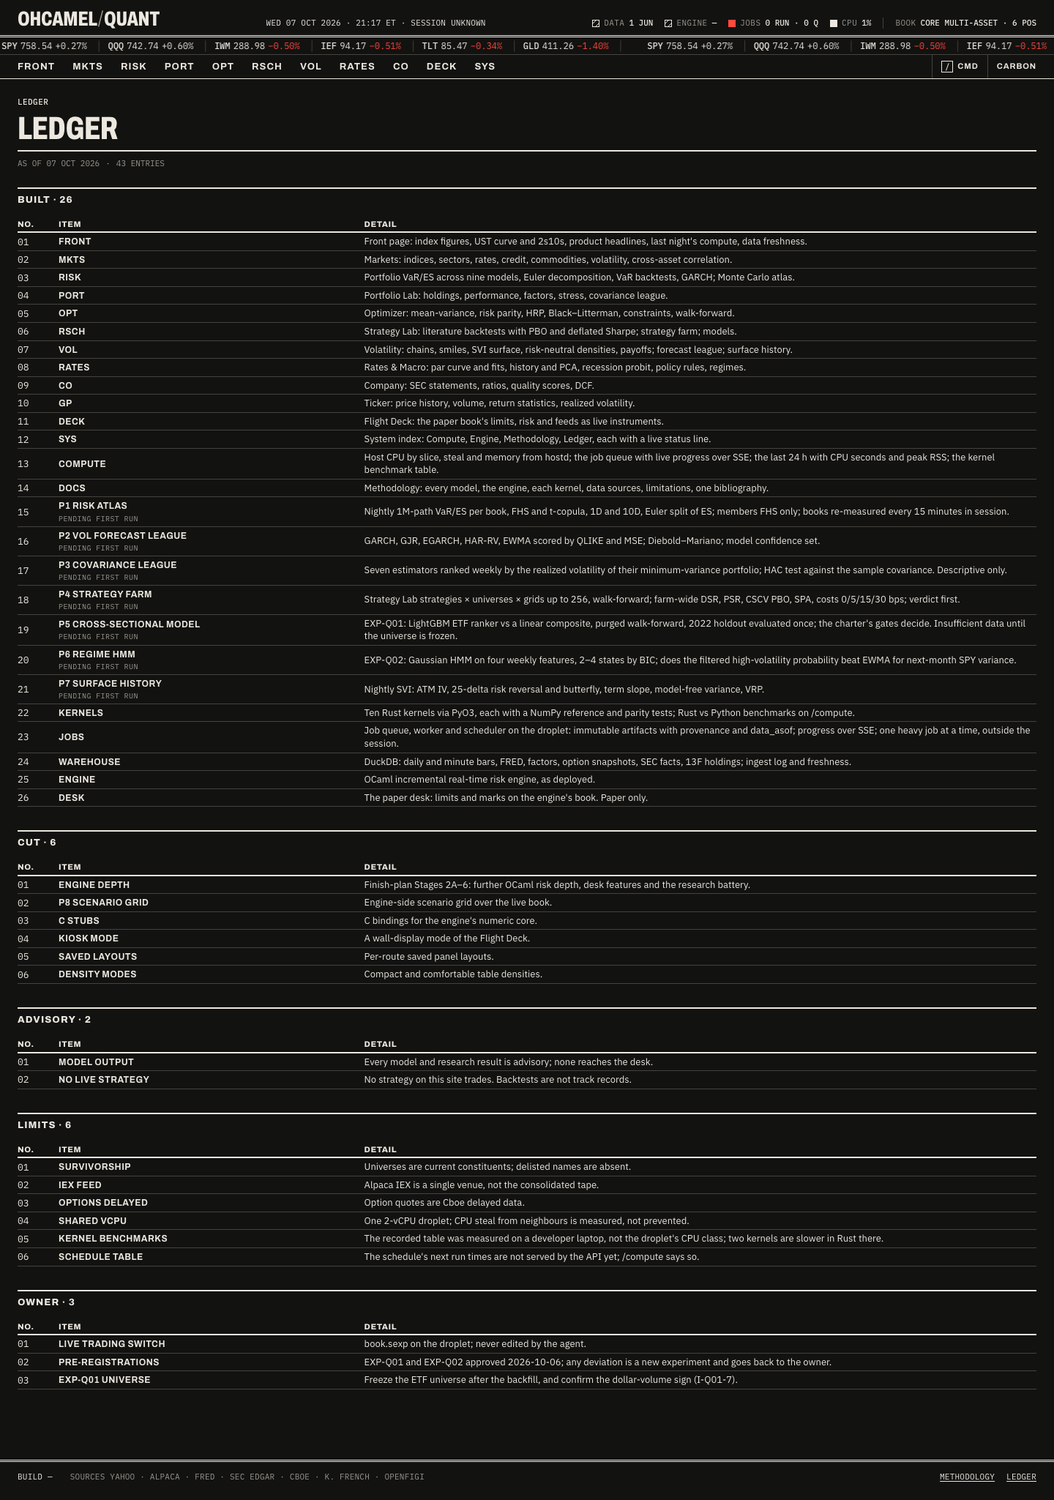
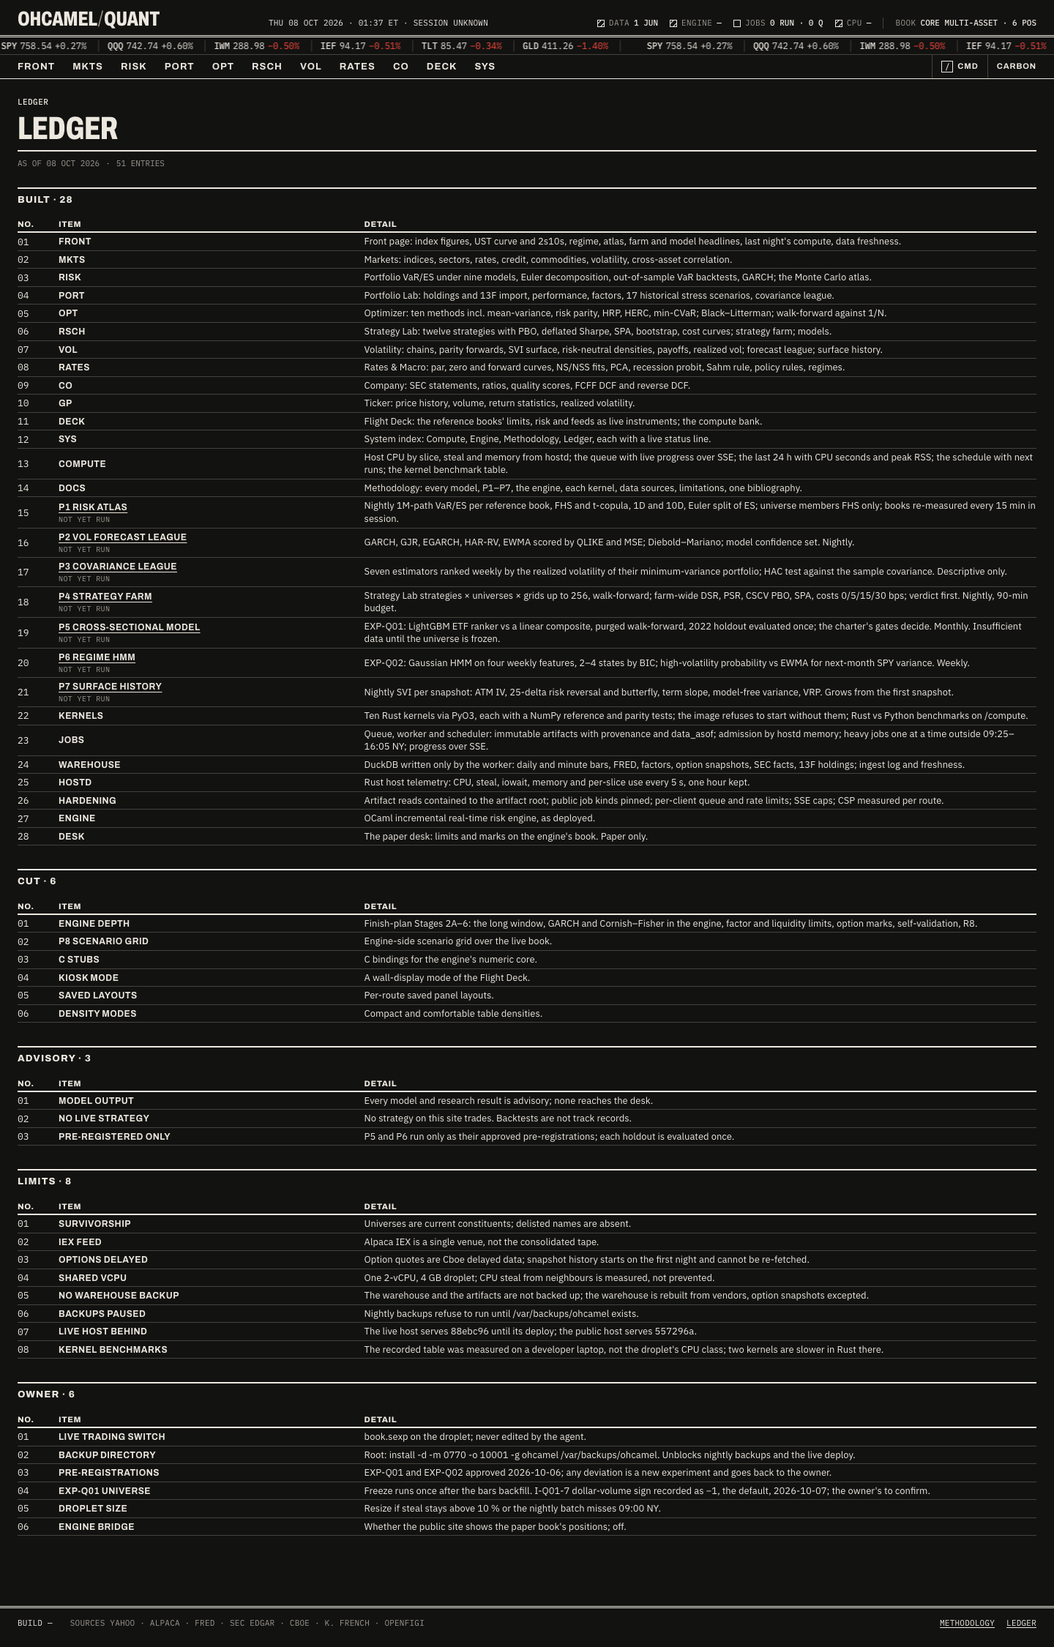
ledger: re-dated 2026-10-08 and checked against the code; product rows read their kind's latest artifact (verdict · ASOF date, STALE, FAIL in signal, NOT YET RUN) instead of a static PENDING flag, and link to their Methodology entry
BUILT gains HOSTD, HARDENING, the schedule table, the Deck compute bank and
corrected details (nine VaR models, ten optimizers, twelve strategies); CUT
matches Ship spec section 2; LIMITS adds no warehouse/artifact backup,
backups paused until /var/backups/ohcamel exists, live host on 88ebc96;
OWNER adds the backup directory, droplet size and engine bridge, and records
the I-Q01-7 sign as -1 by default. Screenshots /ledger and /system 1440/380
paper/carbon (offline: NOT YET RUN), axe 0 serious, no 380 overflow;
populated rows checked with intercepted artifacts (scratch, not committed).

Changed region(s): [[0.0, 0.0, 1.0, 0.937], [0.0, 0.9683, 0.4062, 0.9995], [0.875, 0.9683, 1.0, 0.9995]]

diff --git a/quant/web/src/pages/ledger/entries.ts b/quant/web/src/pages/ledger/entries.ts
@@ -1,6 +1,8 @@
 /**
  * The Ledger: what exists, what was cut, what is advisory, known limits, and what the owner
- * holds. Plain data; re-dated at launch (Lane H). Cut items say what they would have been.
+ * holds. Plain data, dated; re-checked against the code by Lane H (H2). Cut items say what they
+ * would have been. A product row names its job kind, and the page reads that kind's latest
+ * artifact for the row's state, so the Ledger never claims a run it cannot see.
  */
 export type LedgerSection = "BUILT" | "CUT" | "ADVISORY" | "LIMITS" | "OWNER";
 
@@ -8,44 +10,48 @@ export interface LedgerEntry {
   section: LedgerSection;
   item: string;
   detail: string;
-  /** Built but its nightly artifact has not run yet; the row says PENDING FIRST RUN. */
-  pending?: boolean;
+  /** Products only: the job kind whose latest artifact gives the row its live state. */
+  kind?: string;
+  /** Products only: the Methodology entry id. */
+  methodology?: string;
 }
 
-export const LEDGER_AS_OF = "2026-10-07";
+export const LEDGER_AS_OF = "2026-10-08";
 
 export const SECTION_ORDER: LedgerSection[] = ["BUILT", "CUT", "ADVISORY", "LIMITS", "OWNER"];
 
 export const LEDGER: LedgerEntry[] = [
   // ---------------------------------------------------------------- built
-  { section: "BUILT", item: "FRONT", detail: "Front page: index figures, UST curve and 2s10s, product headlines, last night's compute, data freshness." },
+  { section: "BUILT", item: "FRONT", detail: "Front page: index figures, UST curve and 2s10s, regime, atlas, farm and model headlines, last night's compute, data freshness." },
   { section: "BUILT", item: "MKTS", detail: "Markets: indices, sectors, rates, credit, commodities, volatility, cross-asset correlation." },
-  { section: "BUILT", item: "RISK", detail: "Portfolio VaR/ES across nine models, Euler decomposition, VaR backtests, GARCH; Monte Carlo atlas." },
-  { section: "BUILT", item: "PORT", detail: "Portfolio Lab: holdings, performance, factors, stress, covariance league." },
-  { section: "BUILT", item: "OPT", detail: "Optimizer: mean-variance, risk parity, HRP, Black–Litterman, constraints, walk-forward." },
-  { section: "BUILT", item: "RSCH", detail: "Strategy Lab: literature backtests with PBO and deflated Sharpe; strategy farm; models." },
-  { section: "BUILT", item: "VOL", detail: "Volatility: chains, smiles, SVI surface, risk-neutral densities, payoffs; forecast league; surface history." },
-  { section: "BUILT", item: "RATES", detail: "Rates & Macro: par curve and fits, history and PCA, recession probit, policy rules, regimes." },
-  { section: "BUILT", item: "CO", detail: "Company: SEC statements, ratios, quality scores, DCF." },
+  { section: "BUILT", item: "RISK", detail: "Portfolio VaR/ES under nine models, Euler decomposition, out-of-sample VaR backtests, GARCH; the Monte Carlo atlas." },
+  { section: "BUILT", item: "PORT", detail: "Portfolio Lab: holdings and 13F import, performance, factors, 17 historical stress scenarios, covariance league." },
+  { section: "BUILT", item: "OPT", detail: "Optimizer: ten methods incl. mean-variance, risk parity, HRP, HERC, min-CVaR; Black–Litterman; walk-forward against 1/N." },
+  { section: "BUILT", item: "RSCH", detail: "Strategy Lab: twelve strategies with PBO, deflated Sharpe, SPA, bootstrap, cost curves; strategy farm; models." },
+  { section: "BUILT", item: "VOL", detail: "Volatility: chains, parity forwards, SVI surface, risk-neutral densities, payoffs, realized vol; forecast league; surface history." },
+  { section: "BUILT", item: "RATES", detail: "Rates & Macro: par, zero and forward curves, NS/NSS fits, PCA, recession probit, Sahm rule, policy rules, regimes." },
+  { section: "BUILT", item: "CO", detail: "Company: SEC statements, ratios, quality scores, FCFF DCF and reverse DCF." },
   { section: "BUILT", item: "GP", detail: "Ticker: price history, volume, return statistics, realized volatility." },
-  { section: "BUILT", item: "DECK", detail: "Flight Deck: the paper book's limits, risk and feeds as live instruments." },
+  { section: "BUILT", item: "DECK", detail: "Flight Deck: the reference books' limits, risk and feeds as live instruments; the compute bank." },
   { section: "BUILT", item: "SYS", detail: "System index: Compute, Engine, Methodology, Ledger, each with a live status line." },
-  { section: "BUILT", item: "COMPUTE", detail: "Host CPU by slice, steal and memory from hostd; the job queue with live progress over SSE; the last 24 h with CPU seconds and peak RSS; the kernel benchmark table." },
-  { section: "BUILT", item: "DOCS", detail: "Methodology: every model, the engine, each kernel, data sources, limitations, one bibliography." },
-  { section: "BUILT", item: "P1 RISK ATLAS", detail: "Nightly 1M-path VaR/ES per book, FHS and t-copula, 1D and 10D, Euler split of ES; members FHS only; books re-measured every 15 minutes in session.", pending: true },
-  { section: "BUILT", item: "P2 VOL FORECAST LEAGUE", detail: "GARCH, GJR, EGARCH, HAR-RV, EWMA scored by QLIKE and MSE; Diebold–Mariano; model confidence set.", pending: true },
-  { section: "BUILT", item: "P3 COVARIANCE LEAGUE", detail: "Seven estimators ranked weekly by the realized volatility of their minimum-variance portfolio; HAC test against the sample covariance. Descriptive only.", pending: true },
-  { section: "BUILT", item: "P4 STRATEGY FARM", detail: "Strategy Lab strategies × universes × grids up to 256, walk-forward; farm-wide DSR, PSR, CSCV PBO, SPA, costs 0/5/15/30 bps; verdict first.", pending: true },
-  { section: "BUILT", item: "P5 CROSS-SECTIONAL MODEL", detail: "EXP-Q01: LightGBM ETF ranker vs a linear composite, purged walk-forward, 2022 holdout evaluated once; the charter's gates decide. Insufficient data until the universe is frozen.", pending: true },
-  { section: "BUILT", item: "P6 REGIME HMM", detail: "EXP-Q02: Gaussian HMM on four weekly features, 2–4 states by BIC; does the filtered high-volatility probability beat EWMA for next-month SPY variance.", pending: true },
-  { section: "BUILT", item: "P7 SURFACE HISTORY", detail: "Nightly SVI: ATM IV, 25-delta risk reversal and butterfly, term slope, model-free variance, VRP.", pending: true },
-  { section: "BUILT", item: "KERNELS", detail: "Ten Rust kernels via PyO3, each with a NumPy reference and parity tests; Rust vs Python benchmarks on /compute." },
-  { section: "BUILT", item: "JOBS", detail: "Job queue, worker and scheduler on the droplet: immutable artifacts with provenance and data_asof; progress over SSE; one heavy job at a time, outside the session." },
-  { section: "BUILT", item: "WAREHOUSE", detail: "DuckDB: daily and minute bars, FRED, factors, option snapshots, SEC facts, 13F holdings; ingest log and freshness." },
+  { section: "BUILT", item: "COMPUTE", detail: "Host CPU by slice, steal and memory from hostd; the queue with live progress over SSE; the last 24 h with CPU seconds and peak RSS; the schedule with next runs; the kernel benchmark table." },
+  { section: "BUILT", item: "DOCS", detail: "Methodology: every model, P1–P7, the engine, each kernel, data sources, limitations, one bibliography." },
+  { section: "BUILT", item: "P1 RISK ATLAS", kind: "risk.mc_atlas", methodology: "p1-mc-atlas", detail: "Nightly 1M-path VaR/ES per reference book, FHS and t-copula, 1D and 10D, Euler split of ES; universe members FHS only; books re-measured every 15 min in session." },
+  { section: "BUILT", item: "P2 VOL FORECAST LEAGUE", kind: "vol.forecast_league", methodology: "p2-vol-league", detail: "GARCH, GJR, EGARCH, HAR-RV, EWMA scored by QLIKE and MSE; Diebold–Mariano; model confidence set. Nightly." },
+  { section: "BUILT", item: "P3 COVARIANCE LEAGUE", kind: "cov.league", methodology: "p3-cov-league", detail: "Seven estimators ranked weekly by the realized volatility of their minimum-variance portfolio; HAC test against the sample covariance. Descriptive only." },
+  { section: "BUILT", item: "P4 STRATEGY FARM", kind: "farm.sweep", methodology: "p4-strategy-farm", detail: "Strategy Lab strategies × universes × grids up to 256, walk-forward; farm-wide DSR, PSR, CSCV PBO, SPA, costs 0/5/15/30 bps; verdict first. Nightly, 90-min budget." },
+  { section: "BUILT", item: "P5 CROSS-SECTIONAL MODEL", kind: "models.xs_lgbm", methodology: "p5-exp-q01", detail: "EXP-Q01: LightGBM ETF ranker vs a linear composite, purged walk-forward, 2022 holdout evaluated once; the charter's gates decide. Monthly. Insufficient data until the universe is frozen." },
+  { section: "BUILT", item: "P6 REGIME HMM", kind: "regime.hmm", methodology: "p6-exp-q02", detail: "EXP-Q02: Gaussian HMM on four weekly features, 2–4 states by BIC; high-volatility probability vs EWMA for next-month SPY variance. Weekly." },
+  { section: "BUILT", item: "P7 SURFACE HISTORY", kind: "vol.surface_history", methodology: "p7-surface-history", detail: "Nightly SVI per snapshot: ATM IV, 25-delta risk reversal and butterfly, term slope, model-free variance, VRP. Grows from the first snapshot." },
+  { section: "BUILT", item: "KERNELS", detail: "Ten Rust kernels via PyO3, each with a NumPy reference and parity tests; the image refuses to start without them; Rust vs Python benchmarks on /compute." },
+  { section: "BUILT", item: "JOBS", detail: "Queue, worker and scheduler: immutable artifacts with provenance and data_asof; admission by hostd memory; heavy jobs one at a time outside 09:25–16:05 NY; progress over SSE." },
+  { section: "BUILT", item: "WAREHOUSE", detail: "DuckDB written only by the worker: daily and minute bars, FRED, factors, option snapshots, SEC facts, 13F holdings; ingest log and freshness." },
+  { section: "BUILT", item: "HOSTD", detail: "Rust host telemetry: CPU, steal, iowait, memory and per-slice use every 5 s, one hour kept." },
+  { section: "BUILT", item: "HARDENING", detail: "Artifact reads contained to the artifact root; public job kinds pinned; per-client queue and rate limits; SSE caps; CSP measured per route." },
   { section: "BUILT", item: "ENGINE", detail: "OCaml incremental real-time risk engine, as deployed." },
   { section: "BUILT", item: "DESK", detail: "The paper desk: limits and marks on the engine's book. Paper only." },
   // ---------------------------------------------------------------- cut
-  { section: "CUT", item: "ENGINE DEPTH", detail: "Finish-plan Stages 2A–6: further OCaml risk depth, desk features and the research battery." },
+  { section: "CUT", item: "ENGINE DEPTH", detail: "Finish-plan Stages 2A–6: the long window, GARCH and Cornish–Fisher in the engine, factor and liquidity limits, option marks, self-validation, R8." },
   { section: "CUT", item: "P8 SCENARIO GRID", detail: "Engine-side scenario grid over the live book." },
   { section: "CUT", item: "C STUBS", detail: "C bindings for the engine's numeric core." },
   { section: "CUT", item: "KIOSK MODE", detail: "A wall-display mode of the Flight Deck." },
@@ -54,14 +60,21 @@ export const LEDGER: LedgerEntry[] = [
   // ---------------------------------------------------------------- advisory
   { section: "ADVISORY", item: "MODEL OUTPUT", detail: "Every model and research result is advisory; none reaches the desk." },
   { section: "ADVISORY", item: "NO LIVE STRATEGY", detail: "No strategy on this site trades. Backtests are not track records." },
+  { section: "ADVISORY", item: "PRE-REGISTERED ONLY", detail: "P5 and P6 run only as their approved pre-registrations; each holdout is evaluated once." },
   // ---------------------------------------------------------------- limits
   { section: "LIMITS", item: "SURVIVORSHIP", detail: "Universes are current constituents; delisted names are absent." },
   { section: "LIMITS", item: "IEX FEED", detail: "Alpaca IEX is a single venue, not the consolidated tape." },
-  { section: "LIMITS", item: "OPTIONS DELAYED", detail: "Option quotes are Cboe delayed data." },
-  { section: "LIMITS", item: "SHARED VCPU", detail: "One 2-vCPU droplet; CPU steal from neighbours is measured, not prevented." },
+  { section: "LIMITS", item: "OPTIONS DELAYED", detail: "Option quotes are Cboe delayed data; snapshot history starts on the first night and cannot be re-fetched." },
+  { section: "LIMITS", item: "SHARED VCPU", detail: "One 2-vCPU, 4 GB droplet; CPU steal from neighbours is measured, not prevented." },
+  { section: "LIMITS", item: "NO WAREHOUSE BACKUP", detail: "The warehouse and the artifacts are not backed up; the warehouse is rebuilt from vendors, option snapshots excepted." },
+  { section: "LIMITS", item: "BACKUPS PAUSED", detail: "Nightly backups refuse to run until /var/backups/ohcamel exists." },
+  { section: "LIMITS", item: "LIVE HOST BEHIND", detail: "The live host serves 88ebc96 until its deploy; the public host serves 557296a." },
   { section: "LIMITS", item: "KERNEL BENCHMARKS", detail: "The recorded table was measured on a developer laptop, not the droplet's CPU class; two kernels are slower in Rust there." },
   // ---------------------------------------------------------------- owner
   { section: "OWNER", item: "LIVE TRADING SWITCH", detail: "book.sexp on the droplet; never edited by the agent." },
+  { section: "OWNER", item: "BACKUP DIRECTORY", detail: "Root: install -d -m 0770 -o 10001 -g ohcamel /var/backups/ohcamel. Unblocks nightly backups and the live deploy." },
   { section: "OWNER", item: "PRE-REGISTRATIONS", detail: "EXP-Q01 and EXP-Q02 approved 2026-10-06; any deviation is a new experiment and goes back to the owner." },
-  { section: "OWNER", item: "EXP-Q01 UNIVERSE", detail: "Freeze the ETF universe after the backfill, and confirm the dollar-volume sign (I-Q01-7)." },
+  { section: "OWNER", item: "EXP-Q01 UNIVERSE", detail: "Freeze runs once after the bars backfill. I-Q01-7 dollar-volume sign recorded as −1, the default, 2026-10-07; the owner's to confirm." },
+  { section: "OWNER", item: "DROPLET SIZE", detail: "Resize if steal stays above 10 % or the nightly batch misses 09:00 NY." },
+  { section: "OWNER", item: "ENGINE BRIDGE", detail: "Whether the public site shows the paper book's positions; off." },
 ];

diff --git a/quant/web/src/pages/ledger/entries.test.ts b/quant/web/src/pages/ledger/entries.test.ts
@@ -1,31 +1,47 @@
 import { describe, expect, it } from "vitest";
-import { LEDGER } from "./entries";
+import { KINDS } from "../../lib/artifacts";
+import { KERNEL_API } from "../methodology/compute";
+import { MODELS } from "../methodology/models";
+import { LEDGER, LEDGER_AS_OF, SECTION_ORDER } from "./entries";
 
 describe("Ledger entries", () => {
-  it("marks the nightly products P1-P7 as pending their first run (no claim ahead of the artifacts)", () => {
+  it("ties each product P1-P7 to the job kind whose latest artifact the row reads (no claim ahead of the artifacts)", () => {
     const products = LEDGER.filter((e) => /^P[1-7] /.test(e.item));
     expect(products).toHaveLength(7);
-    for (const e of products) expect(e.pending, e.item).toBe(true);
+    const kinds = products.map((e) => e.kind);
+    expect(new Set(kinds)).toEqual(new Set(Object.values(KINDS)));
   });
-  it("leaves the shipped routes unmarked", () => {
-    expect(LEDGER.find((e) => e.item === "FRONT")?.pending).toBeFalsy();
+  it("gives no other row a kind", () => {
+    for (const e of LEDGER.filter((e) => !/^P[1-7] /.test(e.item))) expect(e.kind, e.item).toBeUndefined();
+  });
+  it("points each product at its Methodology entry", () => {
+    const ids = new Set(MODELS.map((m) => m.id));
+    for (const e of LEDGER.filter((e) => e.kind)) expect(ids.has(e.methodology ?? ""), e.item).toBe(true);
   });
 });
 
-describe("Ledger accuracy (re-dated 2026-10-07, Ship plan P2-7)", () => {
-  it("counts the kernels the Methodology documents", async () => {
-    const { KERNEL_API } = await import("../methodology/compute");
+describe("Ledger accuracy (re-dated 2026-10-08, Ship plan Lane H H2)", () => {
+  it("is dated 2026-10-08", () => {
+    expect(LEDGER_AS_OF).toBe("2026-10-08");
+  });
+  it("counts the kernels the Methodology documents", () => {
     expect(KERNEL_API).toHaveLength(10);
     expect(LEDGER.find((e) => e.item === "KERNELS")?.detail).toMatch(/^Ten Rust kernels/);
   });
-  it("has one row per item, and every section non-empty", async () => {
-    const { SECTION_ORDER } = await import("./entries");
+  it("lists every cut of the Ship spec §2", () => {
+    const cut = LEDGER.filter((e) => e.section === "CUT").map((e) => e.item);
+    for (const item of ["ENGINE DEPTH", "P8 SCENARIO GRID", "C STUBS", "KIOSK MODE", "SAVED LAYOUTS", "DENSITY MODES"]) expect(cut).toContain(item);
+  });
+  it("names the owner's outstanding root step for backups and the live host", () => {
+    const owner = LEDGER.filter((e) => e.section === "OWNER").map((e) => `${e.item} ${e.detail}`).join("\n");
+    expect(owner).toMatch(/\/var\/backups\/ohcamel/);
+  });
+  it("has one row per item, and every section non-empty", () => {
     const items = LEDGER.map((e) => `${e.section}:${e.item}`);
     expect(new Set(items).size).toBe(items.length);
     for (const s of SECTION_ORDER) expect(LEDGER.some((e) => e.section === s), s).toBe(true);
   });
-  it("is dated by an ISO date", async () => {
-    const { LEDGER_AS_OF } = await import("./entries");
-    expect(LEDGER_AS_OF).toMatch(/^\d{4}-\d{2}-\d{2}$/);
+  it("writes labels, not prose: no row detail ends in a question", () => {
+    for (const e of LEDGER) expect(e.detail.trim().endsWith("?"), e.item).toBe(false);
   });
 });

diff --git a/quant/web/src/pages/ledger/status.test.ts b/quant/web/src/pages/ledger/status.test.ts
@@ -1,0 +1,30 @@
+import { describe, expect, it } from "vitest";
+import { ApiError, DataUnavailableError, NetworkError } from "../../lib/api";
+import type { Manifest } from "../../lib/artifacts";
+import { productStatus } from "./status";
+
+const m = (over: Partial<Manifest> = {}): Manifest => ({ id: "01X", kind: "risk.mc_atlas", ...over });
+
+describe("productStatus: a product row's live state, read from its latest artifact (no claim ahead of it)", () => {
+  it("leads with the verdict and the data date", () => {
+    expect(productStatus(m({ verdict: "DESCRIPTIVE ONLY", data_asof: "2026-10-07" }), null, false))
+      .toEqual({ text: "DESCRIPTIVE ONLY · ASOF 07 OCT 2026", fail: false });
+  });
+  it("marks FAIL for the signal colour and STALE when the API says so", () => {
+    expect(productStatus(m({ verdict: "FAIL", data_asof: "2026-10-01", stale: true }), null, false))
+      .toEqual({ text: "FAIL · ASOF 01 OCT 2026 · STALE", fail: true });
+  });
+  it("says NO VERDICT and a dash when the manifest has neither", () => {
+    expect(productStatus(m(), null, false).text).toBe("NO VERDICT · ASOF —");
+  });
+  it("says NOT YET RUN on a 404 and DATA UNAVAILABLE on a 503", () => {
+    expect(productStatus(null, new ApiError(404, "no artifact", "/artifacts/x/latest"), false))
+      .toEqual({ text: "NOT YET RUN", fail: false });
+    expect(productStatus(null, new DataUnavailableError("down", "/artifacts/x/latest"), false).text).toBe("DATA UNAVAILABLE");
+  });
+  it("says UNREADABLE for any other failure, and a dash while reading", () => {
+    expect(productStatus(null, new NetworkError("offline", "/artifacts/x/latest"), false).text).toBe("UNREADABLE");
+    expect(productStatus(null, new ApiError(500, "boom", "/artifacts/x/latest"), false).text).toBe("UNREADABLE");
+    expect(productStatus(null, null, true).text).toBe("—");
+  });
+});

diff --git a/quant/web/src/pages/Ledger.tsx b/quant/web/src/pages/Ledger.tsx
@@ -1,11 +1,21 @@
 /**
  * The Ledger (/ledger): what was built, what was cut, what is advisory, known limits, and
- * what the owner holds. Dated from a constant; each section a ruled table.
+ * what the owner holds. Dated from a constant; each section a ruled table. A product row reads
+ * its kind's latest artifact and shows its verdict and data date, or NOT YET RUN.
  */
+import { Link } from "react-router-dom";
 import { DataTable, Page, Section, type Column } from "../components";
 import { fmtStamp } from "../design/stamp";
+import { manifestOf, useArtifact } from "../lib/artifacts";
 import { LEDGER, LEDGER_AS_OF, SECTION_ORDER, type LedgerEntry } from "./ledger/entries";
+import { productStatus } from "./ledger/status";
 import "./ledger/ledger.css";
+
+function ProductState({ kind }: { kind: string }) {
+  const q = useArtifact(kind);
+  const s = productStatus(manifestOf(q.data), q.error, q.isLoading);
+  return <span className={"lg-state num" + (s.fail ? " lg-state-fail" : "")}>{s.text}</span>;
+}
 
 type Row = LedgerEntry & { n: number };
 
@@ -13,8 +23,12 @@ const COLUMNS: Column<Row>[] = [
   { key: "n", label: "NO.", width: 48, render: (r) => <span className="num">{String(r.n).padStart(2, "0")}</span> },
   { key: "item", label: "ITEM", width: "30%", wrap: true, render: (r) => (
       <>
-        <span className="lg-item">{r.item}</span>
-        {r.pending && <span className="lg-pending">PENDING FIRST RUN</span>}
+        {r.methodology ? (
+          <Link className="lg-item lg-link" to={`/methodology#${r.methodology}`}>{r.item}</Link>
+        ) : (
+          <span className="lg-item">{r.item}</span>
+        )}
+        {r.kind && <ProductState kind={r.kind} />}
       </>
     ) },
   { key: "detail", label: "DETAIL", wrap: true },

diff --git a/quant/web/src/pages/ledger/status.ts b/quant/web/src/pages/ledger/status.ts
@@ -1,0 +1,23 @@
+/**
+ * A Ledger product row's live state, from GET /api/artifacts/{kind}/latest: the verdict and data
+ * date of the newest artifact, or why there is none. The Ledger states what exists; whether a
+ * product has run is read, not written into the page.
+ */
+import { absentLabel, type Manifest } from "../../lib/artifacts";
+import { fmtStamp } from "../../design/stamp";
+
+export interface ProductStatus {
+  text: string;
+  /** The verdict is FAIL: set in --signal. */
+  fail: boolean;
+}
+
+export function productStatus(m: Manifest | null, error: unknown, loading: boolean): ProductStatus {
+  if (m) {
+    const parts = [m.verdict ?? "NO VERDICT", `ASOF ${fmtStamp(m.data_asof)}`];
+    if (m.stale === true) parts.push("STALE");
+    return { text: parts.join(" · "), fail: m.verdict === "FAIL" };
+  }
+  if (error) return { text: absentLabel(error) ?? "UNREADABLE", fail: false };
+  return { text: loading ? "—" : "NOT YET RUN", fail: false };
+}

diff --git a/quant/web/src/pages/ledger/ledger.css b/quant/web/src/pages/ledger/ledger.css
@@ -10,13 +10,22 @@
   word-break: normal;
   hyphens: manual;
 }
-.lg-pending {
+.lg-link {
+  color: var(--ink);
+  text-decoration: underline;
+  text-decoration-thickness: 1px;
+  text-underline-offset: 3px;
+}
+.lg-state {
   display: block;
   margin-top: 2px;
   font-family: var(--font-mono);
   font-size: var(--fs-2xs);
   letter-spacing: 0.04em;
   color: var(--ink-2);
+}
+.lg-state-fail {
+  color: var(--signal);
 }
 
 .sys-rows {
